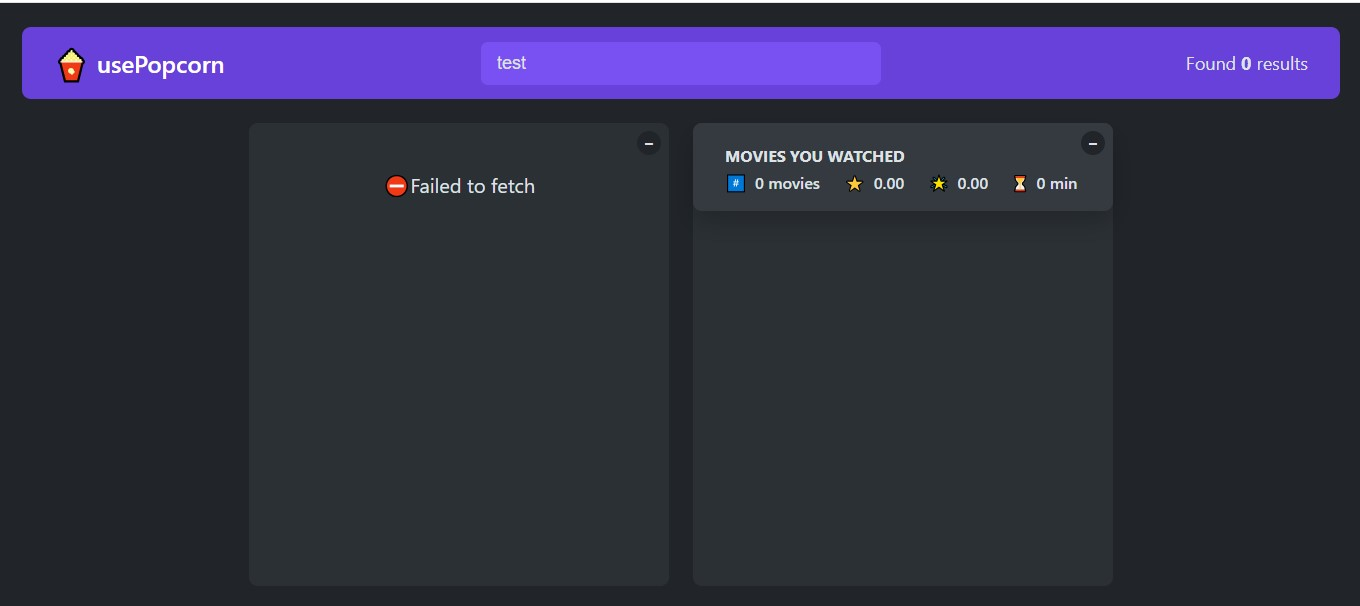
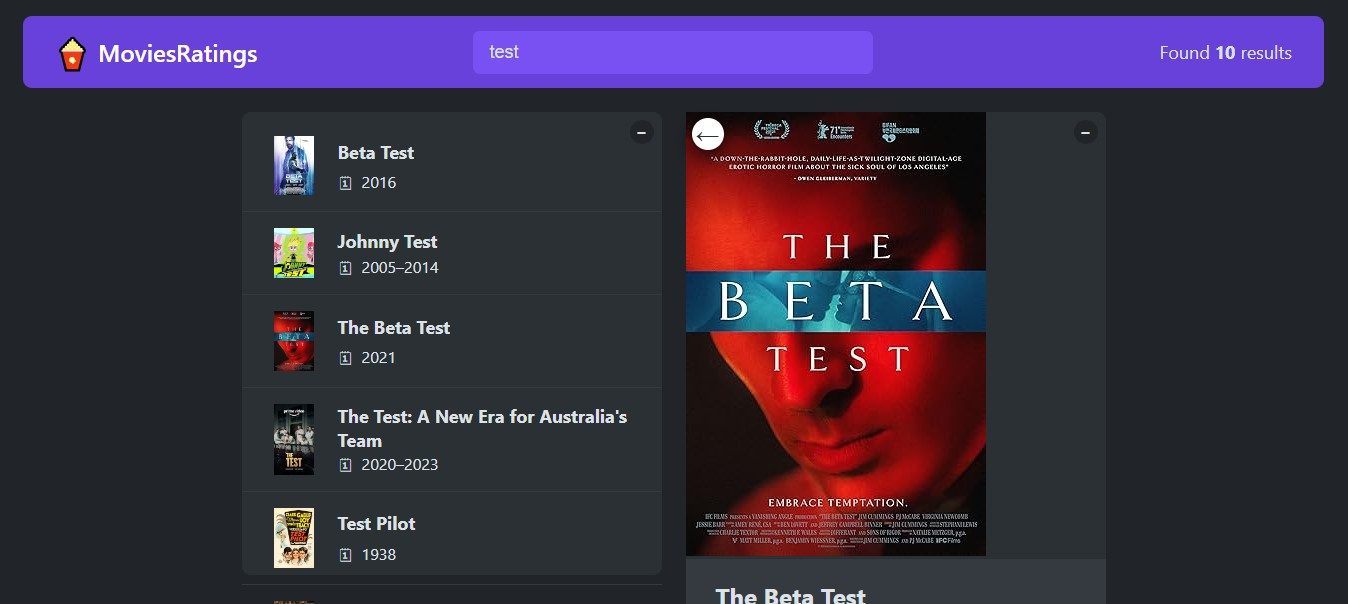
remove mixed http error

diff --git a/Self Projects/react-portfolio/src/pages/Projects/projectsData.js b/Self Projects/react-portfolio/src/pages/Projects/projectsData.js
@@ -3,25 +3,25 @@ const projects = [
     id: 10,
     title: "Navigating Tabs in react",
     image: "./ProjectImages/react-tabs.jpg",
-    link: "https://65b93e4edb5b472525ff679d--heroic-arithmetic-1a1664.netlify.app/",
+    link: "https://heroic-arithmetic-1a1664.netlify.app",
   },
   {
     id: 11,
     title: "Movies Rating",
     image: "./ProjectImages/movies-rating.jpg",
-    link: "https://65b9412c7e710125a7faf8e5--grand-pie-586ece.netlify.app/",
+    link: "https://grand-pie-586ece.netlify.app/",
   },
   {
     id: 9,
     title: "React Quiz - using useReducer",
     image: "./ProjectImages/react-quiz.jpg",
-    link: "https://65b93bd96462c920d4b724c2--comforting-sherbet-1505cf.netlify.app/",
+    link: "https://comforting-sherbet-1505cf.netlify.app",
   },
   {
     id: 8,
     title: "Travel check list",
     image: "./ProjectImages/travel-list.jpg",
-    link: "https://65b93afe9611e31fd810b092--effulgent-clafoutis-833654.netlify.app/",
+    link: "https://effulgent-clafoutis-833654.netlify.app/",
   },
   {
     id: 5,

diff --git a/Self Projects/React/use-movies/src/App.js b/Self Projects/React/use-movies/src/App.js
@@ -5,7 +5,7 @@ import { useLocalStorage } from "./useLocalStorage";
 import { useKey } from "./useKey";
 
 const key = "d9f0b49";
-const omdbUrl = `http://www.omdbapi.com/?apikey=${key}&`;
+const omdbUrl = `https://www.omdbapi.com/?apikey=${key}&`;
 const average = (arr) =>
   arr.reduce((acc, cur, i, arr) => acc + cur / arr.length, 0);
 

diff --git a/Self Projects/React/use-movies/src/useMovies.js b/Self Projects/React/use-movies/src/useMovies.js
@@ -1,7 +1,7 @@
 import { useEffect, useState } from "react";
 
 const key = "d9f0b49";
-const omdbUrl = `http://www.omdbapi.com/?apikey=${key}&`;
+const omdbUrl = `https://www.omdbapi.com/?apikey=${key}&`;
 
 export function useMovies(query) {
   const [movies, setMovies] = useState([]);
